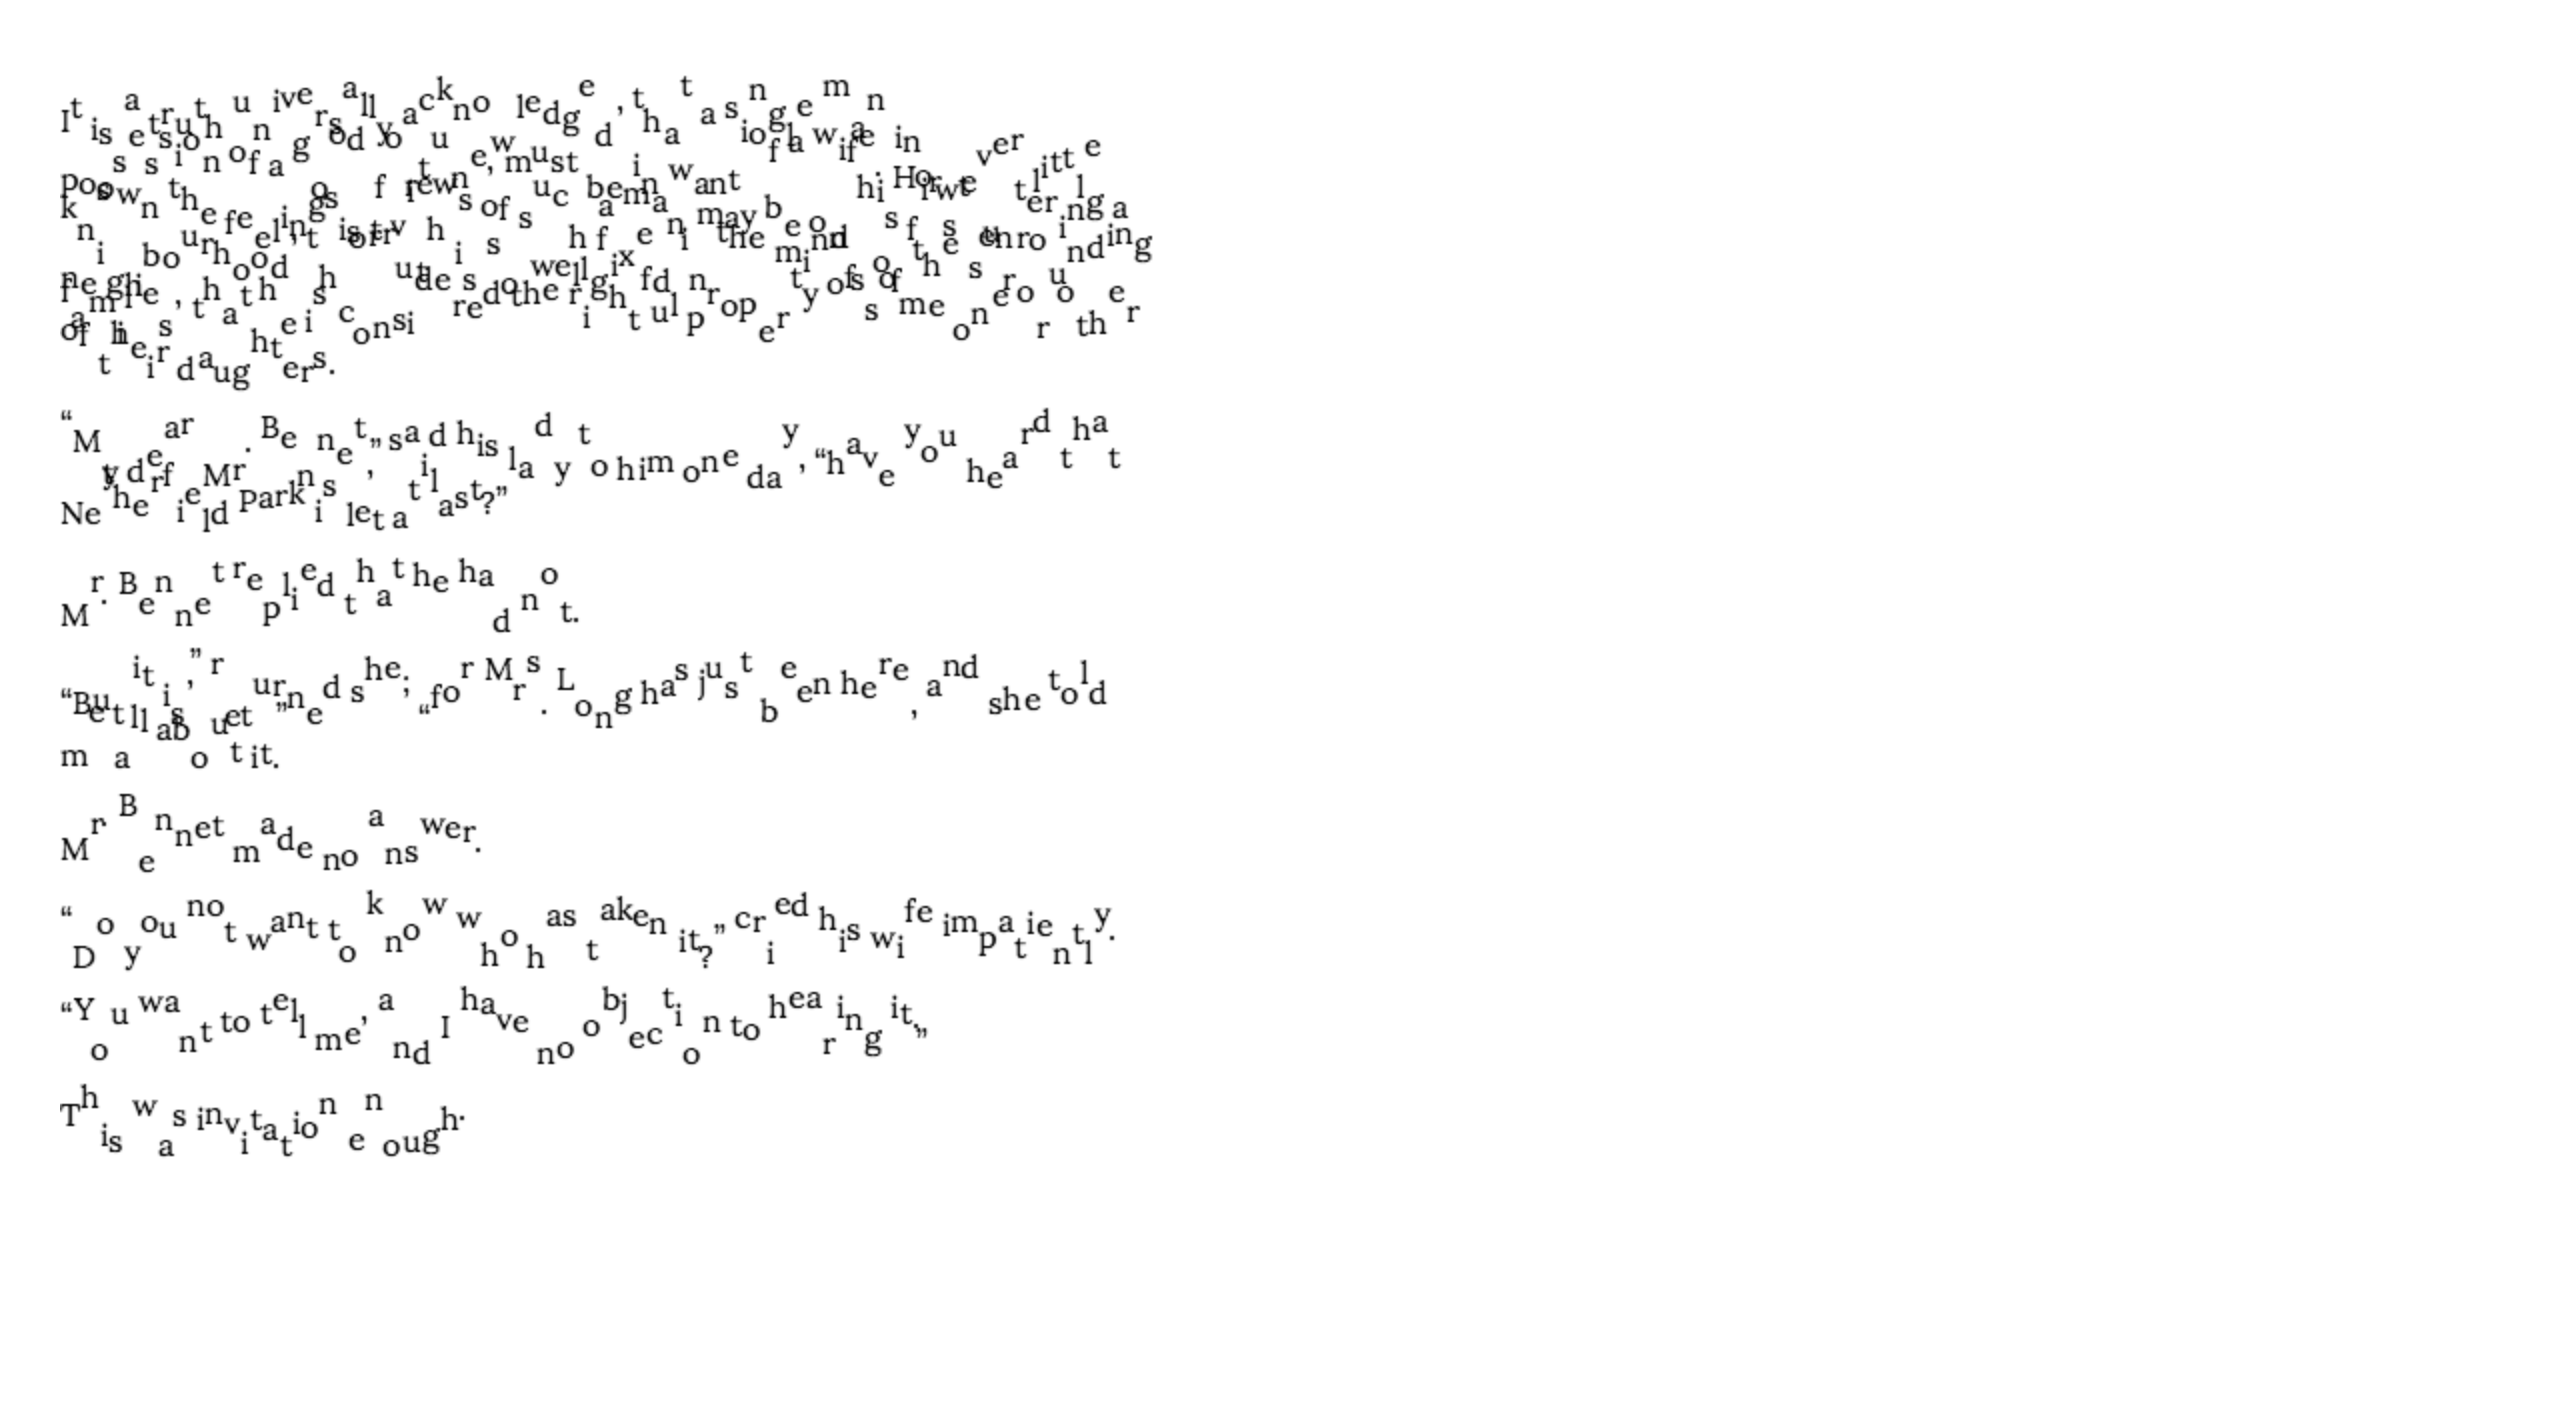
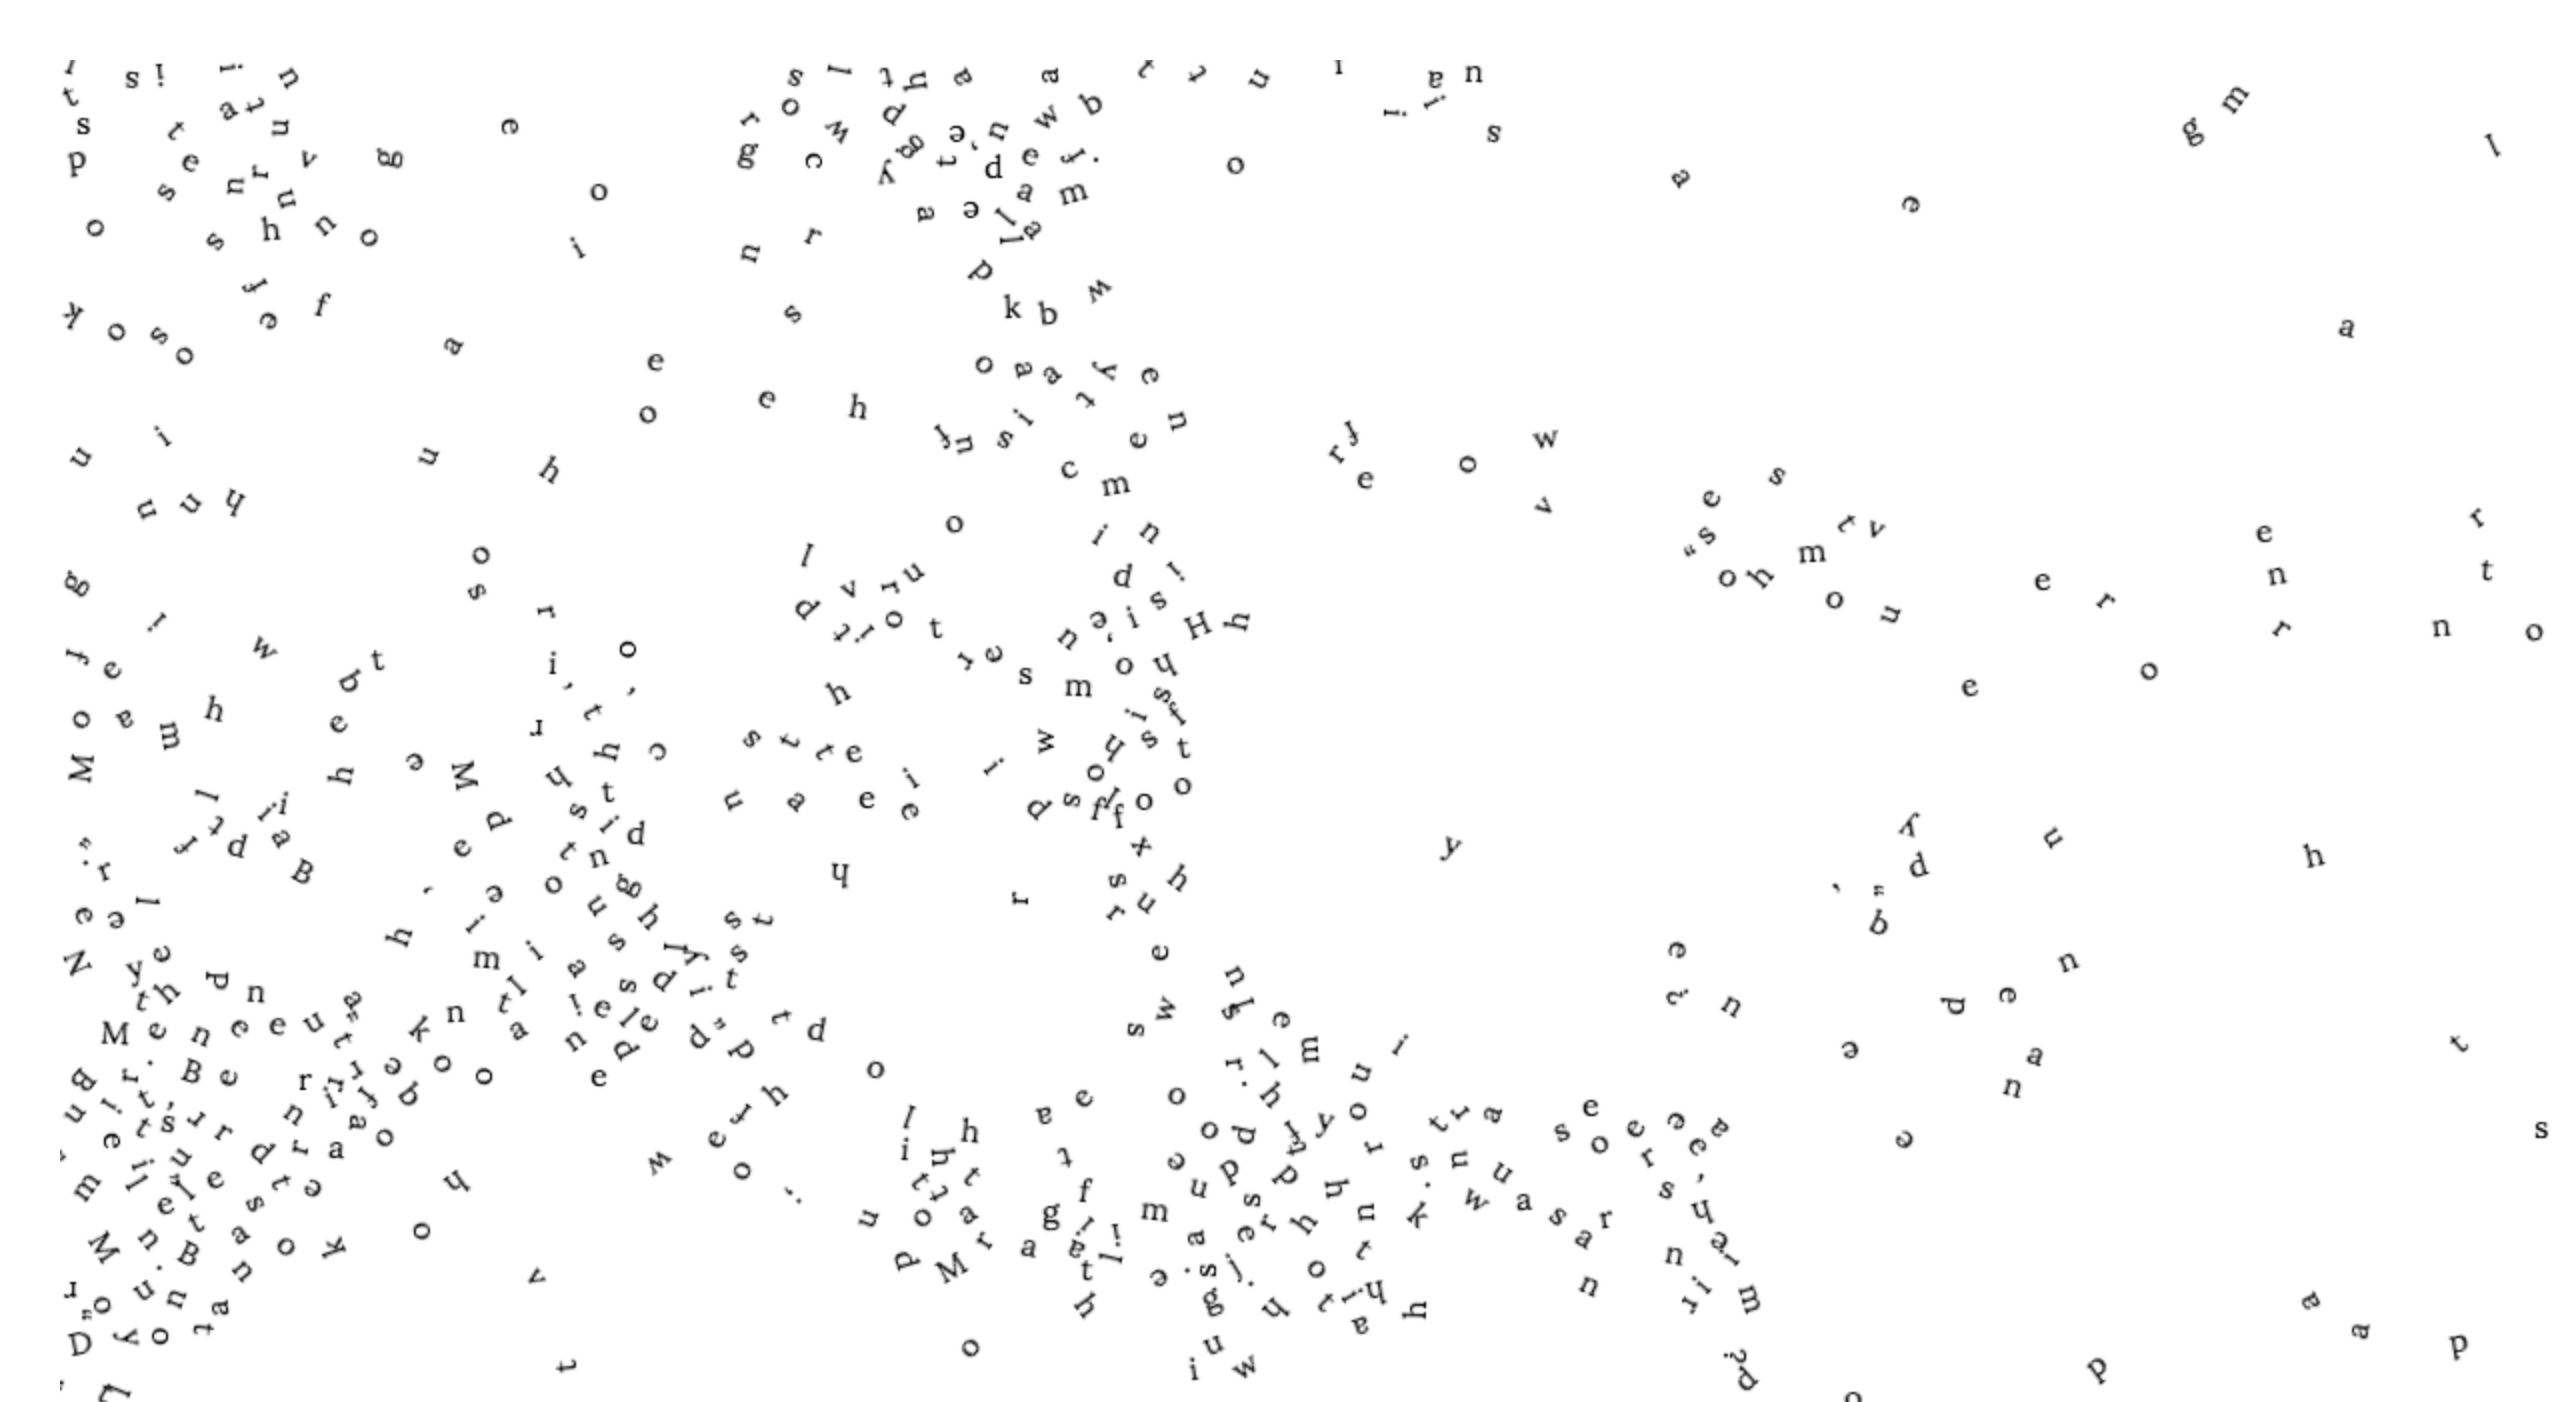
Be prepared to read from a book

diff --git a/src/states/Game.js b/src/states/Game.js
@@ -12,8 +12,10 @@ export default class extends Phaser.State {
     }
   }
   create () {
-    this.game.world.setBounds(0, 0, 1400, 800)
+
+//    this.game.world.setBounds(0, 0, this.game.config.gameWidth, this.game.config.gameHeight)
     this.game.physics.startSystem(Phaser.Physics.P2JS)
+    game.physics.p2.applyDamping = false
     this.game.renderer.renderSession.roundPixels = true
 
     this.letters = this.game.add.group()
@@ -22,7 +24,11 @@ export default class extends Phaser.State {
     const t = document.getElementById('text')
     const range = document.createRange()
 
-    const effect = sample([sink, float, bump, drift, shift])
+    const effect = sample([sink, float, bump, drift, shift, crunch])
+    const worldMaterial = game.physics.p2.createMaterial('worldMaterial')
+    game.physics.p2.setWorldMaterial(worldMaterial, true, true, true, true)
+
+    console.log(effect)
 
     for (let i = 1;i < t.textContent.length + 1; i++) {
       range.setStart(t.firstChild, i-1)
@@ -40,19 +46,18 @@ export default class extends Phaser.State {
           text.body.clearShapes()
 
           text.body.static = true
+          let textMaterial = this.game.physics.p2.createMaterial('textMateral', text.body)
+          let contact = game.physics.p2.createContactMaterial(textMaterial, worldMaterial)
 
           const opts = {
             index: i,
             rate: i / rng(250, 1000),
+            collisions: collisions,
+            material: contact
           }
           text.body.static = false
           effect(text, opts)
-
-          // text.body.setCollisionGroup(collisions)
-          // text.body.collides([collisions])
-
           this.letters.add(text)
-
       }
     }
   }
@@ -67,12 +72,29 @@ const sink = (text, opts) => {
 
 const float = (text, opts) => {
   text.body.setRectangle(4)
-  text.body.velocity.y = -rng(1, opts.rate)
+  text.body.velocity.y = -rng(100, 100 + opts.rate)
+}
+
+const crunch = (text, opts) => {
+  text.body.setRectangle(4)
+  text.body.velocity.x = -rng(200, 200 + opts.rate)
+}
+
+const springy = (text, opts) => {
+  text.body.setRectangle(4)
+  text.body.velocity.x = -rng(400, 400 + opts.rate)
 }
 
 const shift = (text, opts) => {
-  text.body.velocity.y = rng(-20, 20)
+  text.body.velocity.y = -rng(0, 20 + opts.rate)
 }
+
+const spin = (text, opts) => {
+  text.body.setRectangle(4)
+  text.body.angularVelocity = -rng(-1, 1)
+  text.body.velocity.y = -rng(20, 20 + opts.rate)
+}
+
 const bump = (text, opts) => {
   text.body.velocity.x = rng(-2, 2)
   text.body.velocity.y = rng(-2, 2)
@@ -80,7 +102,7 @@ const bump = (text, opts) => {
 }
 
 const drift = (text, opts) => {
-  text.body.velocity.y = rng(opts.rate, opts.rate * 5)
+  text.body.velocity.y = rng(opts.rate, opts.rate * 100)
 }
 
 const sample = (arr) => {

diff --git a/src/index.html b/src/index.html
@@ -26,37 +26,14 @@
           line-height: 1.5em;
           position: absolute;
           top: 0;
-          visibility: hidden;
+          visibility: hidden; 
           font-variant-ligatures: none;
         }
     </style>
 </head>
 
 <body>
-    <pre id="text">
-It is a truth universally acknowledged, that a single man in
-possession of a good fortune, must be in want of a wife. However little
-known the feelings or views of such a man may be on his first entering a
-neighbourhood, this truth is so well fixed in the minds of the surrounding
-families, that he is considered the rightful property of some one or other
-of their daughters.
-
-“My dear Mr. Bennet,” said his lady to him one day, “have you heard that
-Netherfield Park is let at last?”
-
-Mr. Bennet replied that he had not.
-
-“But it is,” returned she; “for Mrs. Long has just been here, and she told
-me all about it.”
-
-Mr. Bennet made no answer.
-
-“Do you not want to know who has taken it?” cried his wife impatiently.
-
-“You want to tell me, and I have no objection to hearing it.”
-
-This was invitation enough.
-</pre>
+    <pre id="text"></pre>
     <div id="content"></div>
 
 

diff --git a/src/states/Boot.js b/src/states/Boot.js
@@ -6,6 +6,7 @@ export default class extends Phaser.State {
     this.stage.backgroundColor = '#FFFFFF'
     this.fontsReady = false
     this.fontsLoaded = this.fontsLoaded.bind(this)
+    this.bookLoaded = this.bookLoaded.bind(this)
   }
 
   preload () {
@@ -15,8 +16,21 @@ export default class extends Phaser.State {
       },
       active: this.fontsLoaded
     })
+    this.game.load.json('book', '/data/book.json')
   }
-
+  create () {
+    const book = this.game.cache.getJSON('book')
+    // Join all the lines of the current chapter (0)
+    let chapterIndex = this.game.net.getQueryString('chapter') || 0
+    if (JSON.stringify(chapterIndex) === '{}') {
+      chapterIndex = 0
+    }
+    if (book.length - 1 >= chapterIndex) {
+      const chapter = book[chapterIndex]
+      const text = chapter.join('\n')
+      document.getElementById('text').innerHTML = text
+    }
+  }
   render () {
     if (this.fontsReady) {
       this.state.start('Game')
@@ -25,5 +39,8 @@ export default class extends Phaser.State {
 
   fontsLoaded () {
     this.fontsReady = true
+  }
+  bookLoaded () {
+    this.bookReady = true
   }
 }

diff --git a/src/main.js b/src/main.js
@@ -10,8 +10,8 @@ import config from './config'
 class Game extends Phaser.Game {
   constructor () {
     const docElement = document.documentElement
-    const width = 1400
-    const height = 800
+    const width = config.gameWidth
+    const height = config.gameHeight
 
     super(width, height, Phaser.CANVAS, 'content', null)
 
